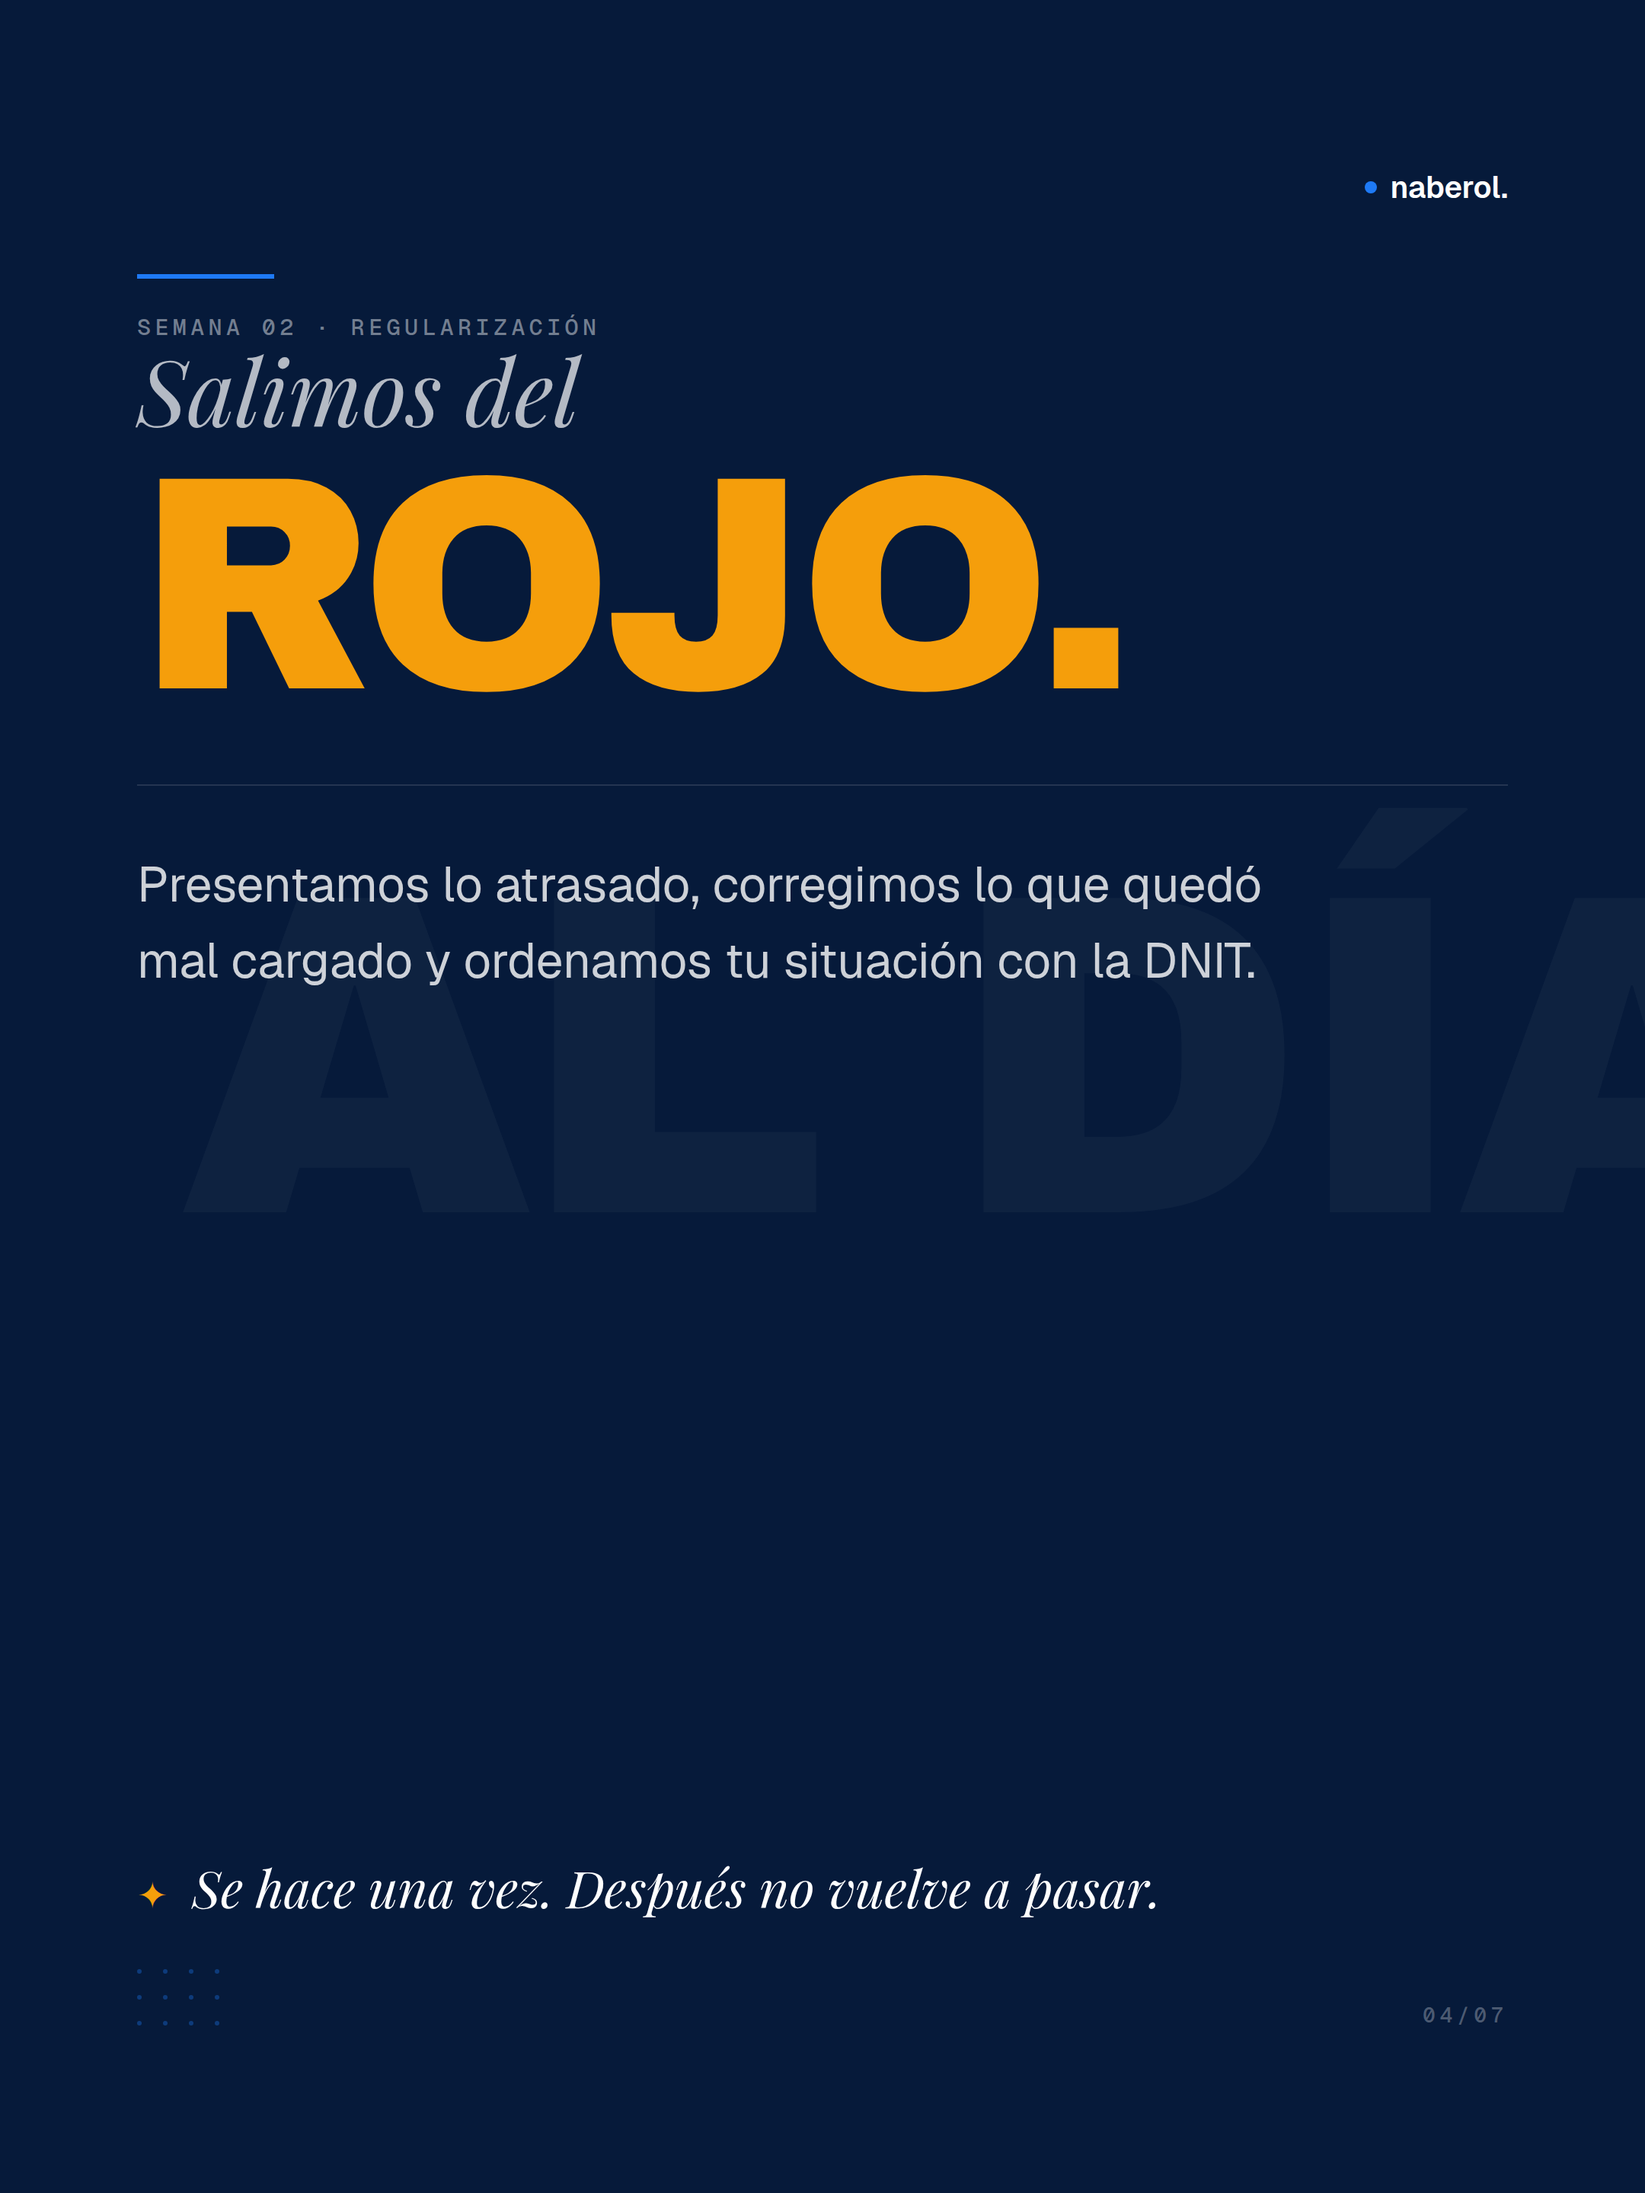
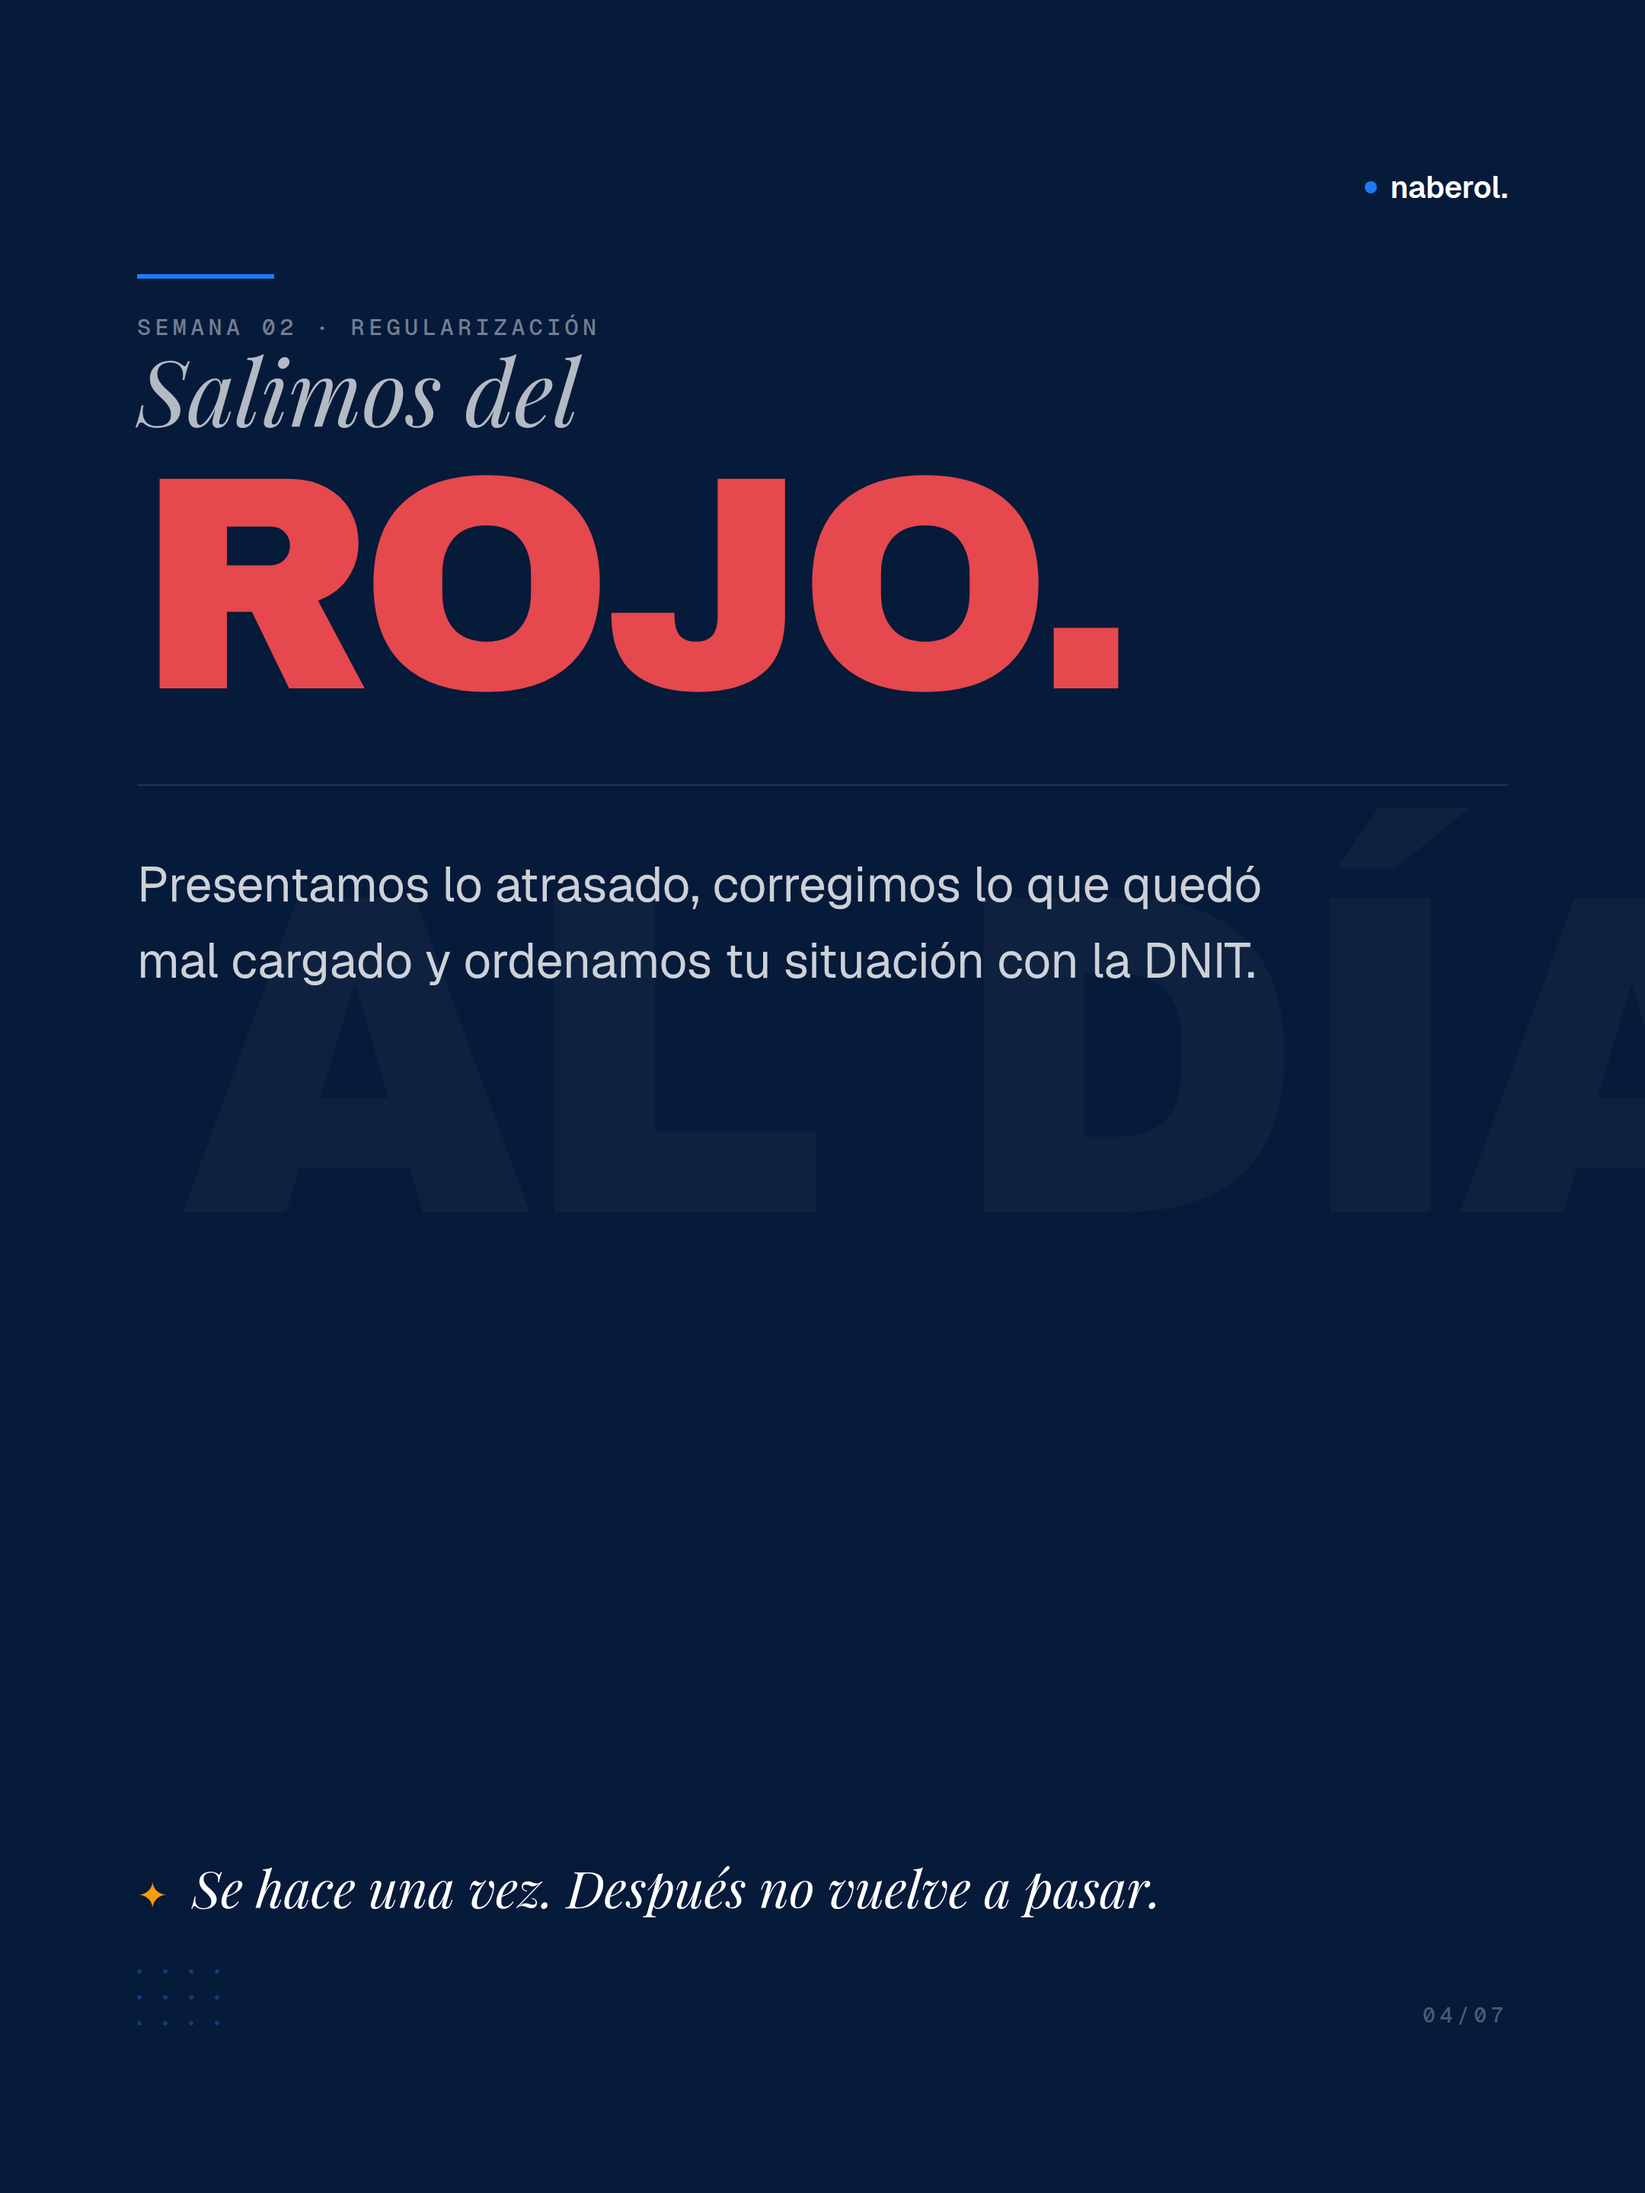
Slide 4: color ROJO word red instead of amber

Changed region(s): [[0.0931, 0.2188, 0.6824, 0.3125]]

diff --git a/carrusel_primer_mes.html b/carrusel_primer_mes.html
@@ -157,7 +157,7 @@
   #s3 .hl-hammer{ font-size:110px; }
 
   #s4 .hl-it{ font-size:60px; }
-  #s4 .hl-hammer{ font-size:200px; color:#F59E0B; }
+  #s4 .hl-hammer{ font-size:200px; color:#E5484D; }
   #s4 .body-copy{ font-family:'Geist', sans-serif; font-weight:400; font-size:32px; color:rgba(255,255,255,0.8); line-height:1.55; max-width:800px; }
 
   #s5 .hl-it{ font-size:60px; }
